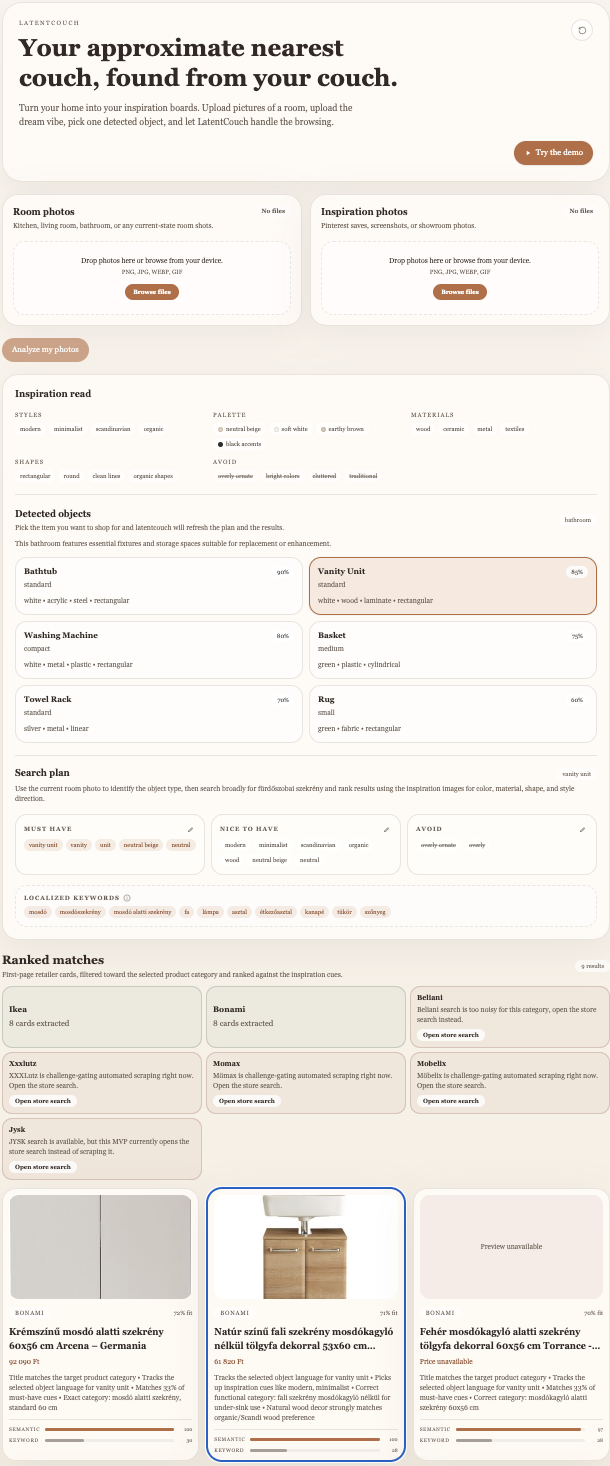
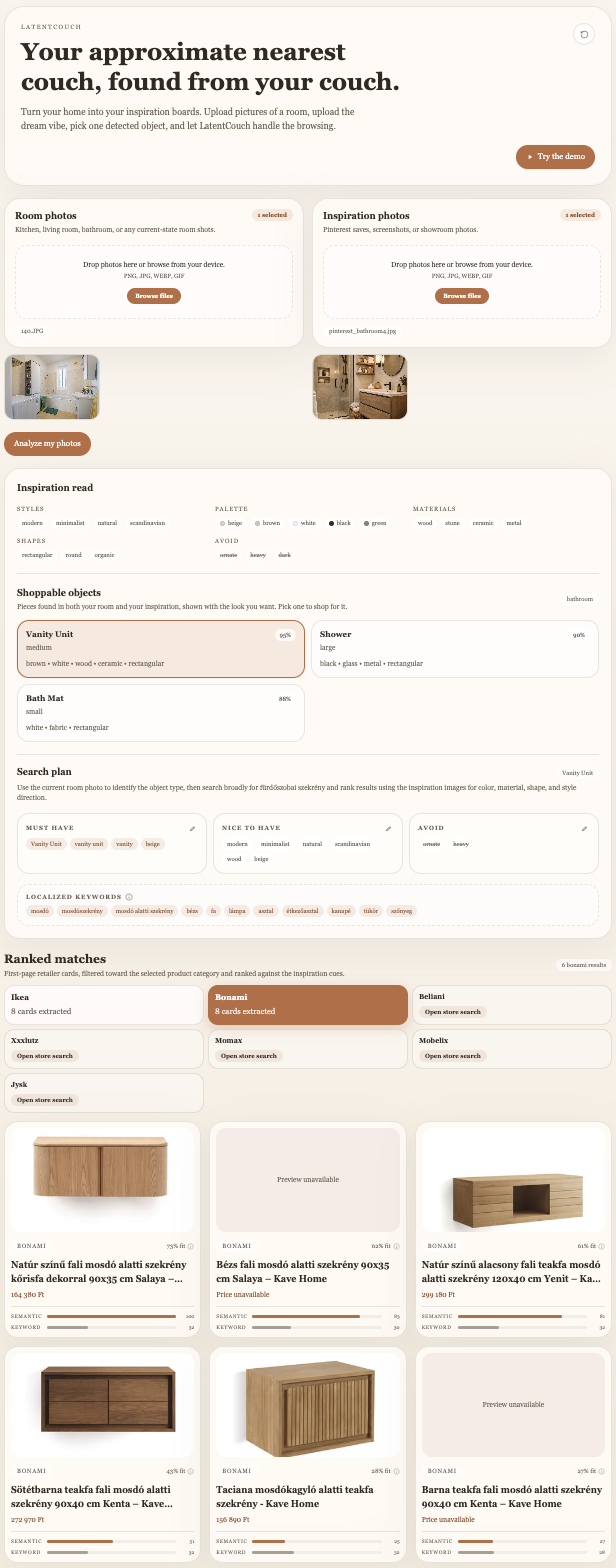
Simplify store cards, distinct terracotta selected state, update README screenshot

diff --git a/components/store-status-list.tsx b/components/store-status-list.tsx
@@ -27,30 +27,35 @@ export function StoreStatusList({
         const isFilterable = status.ok && status.resultCount > 0 && !status.manualSearchUrl;
         const isActive = activeRetailer === status.retailer;
 
-        const tileClass = `rounded-[1.25rem] border p-3 text-sm transition ${
-          isActive
-            ? "border-[var(--accent)] bg-[rgba(173,95,58,0.09)] shadow-[0_8px_24px_rgba(173,95,58,0.12)]"
-            : status.ok
-              ? "border-[color:rgba(64,96,79,0.22)] bg-[rgba(64,96,79,0.06)]"
-              : "border-[color:rgba(139,66,51,0.22)] bg-[rgba(139,66,51,0.06)]"
-        } ${isFilterable ? "cursor-pointer hover:-translate-y-0.5 hover:bg-white/85" : ""}`;
+        const variant = isActive
+          ? "border-transparent bg-[var(--accent)] text-white shadow-[0_10px_28px_rgba(187,108,63,0.30)]"
+          : status.ok
+            ? "border-[var(--line)] bg-white/70"
+            : "border-[var(--line)] bg-white/35";
+
+        const tileClass = `rounded-[1.25rem] border p-3 text-sm transition ${variant} ${
+          isFilterable ? "cursor-pointer hover:-translate-y-0.5 hover:shadow-sm" : ""
+        }`;
 
         const content = (
           <>
             <p className="font-semibold capitalize">{status.retailer}</p>
-            <p className="mt-1 text-[var(--muted)]">
-              {status.ok ? `${status.resultCount} cards extracted` : status.error || "No results"}
-            </p>
-            {!status.ok && status.manualSearchUrl ? (
+            {status.ok ? (
+              <p className={`mt-1 ${isActive ? "text-white/85" : "text-[var(--muted)]"}`}>
+                {status.resultCount} cards extracted
+              </p>
+            ) : status.manualSearchUrl ? (
               <a
-                className="mt-2 inline-flex rounded-full bg-white/80 px-3 py-1 text-xs font-semibold text-[var(--accent-strong)]"
+                className="mt-2 inline-flex rounded-full bg-[var(--accent-soft)] px-3 py-1 text-xs font-semibold text-[var(--accent-strong)] transition hover:bg-white"
                 href={status.manualSearchUrl}
                 rel="noreferrer"
                 target="_blank"
               >
                 Open store search
               </a>
-            ) : null}
+            ) : (
+              <p className="mt-1 text-[var(--muted)]">No results</p>
+            )}
           </>
         );
 